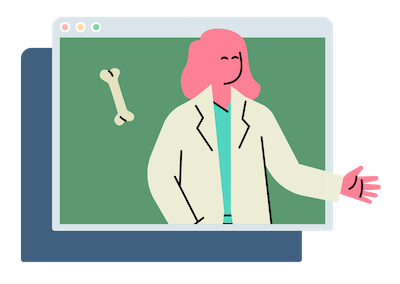
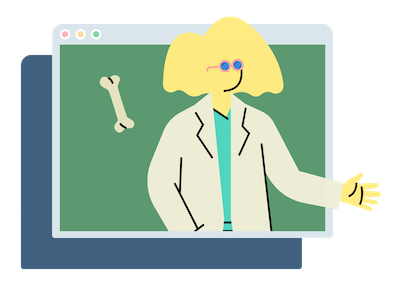
Changing home and login imagens

diff --git a/src/pages/home/Home.js b/src/pages/home/Home.js
@@ -2,9 +2,9 @@ import React, { useState, useEffect } from 'react';
 import NavigationBar from '../../componentes/NavigationBar';
 import AnimatedCursor from 'react-animated-cursor';
 import './Home.css';
-import imagem1 from '../../imagens/medico1.png';
-import imagem2 from '../../imagens/medico2.png';
-import imagem3 from '../../imagens/medico3.png';
+import imagem1 from '../../imagens/novomedico1.png';
+import imagem2 from '../../imagens/novomedico2.png';
+import imagem3 from '../../imagens/novomedico3.png';
 import icone from '../../imagens/icon1.png';
 import icone2 from '../../imagens/icon2.png';
 import icone3 from '../../imagens/icon3.png';

diff --git a/src/pages/video/Video.js b/src/pages/video/Video.js
@@ -3,7 +3,7 @@ import AnimatedCursor from 'react-animated-cursor';
 import NavigationBar from '../../componentes/NavigationBar';
 import './Video.css';
 import videoSrc from '../../imagens/pneumo.mp4';
-import videoSrc2 from '../../imagens/video_sangue.mp4';
+import videoSrc2 from '../../imagens/tuberculo.mp4';
 
 const Video = () => {
   const [videos, setVideos] = useState([
